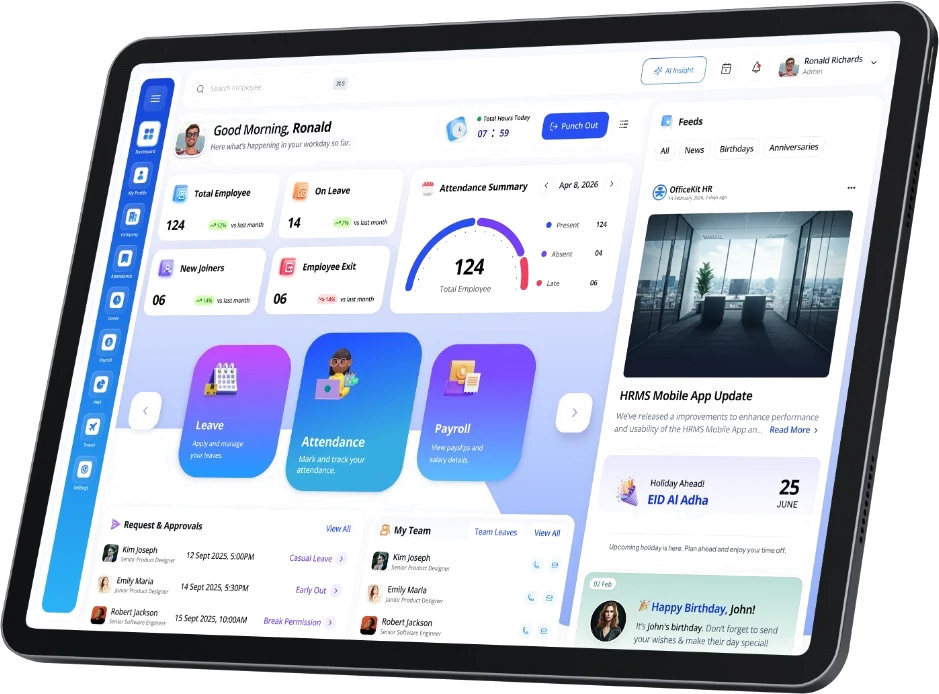
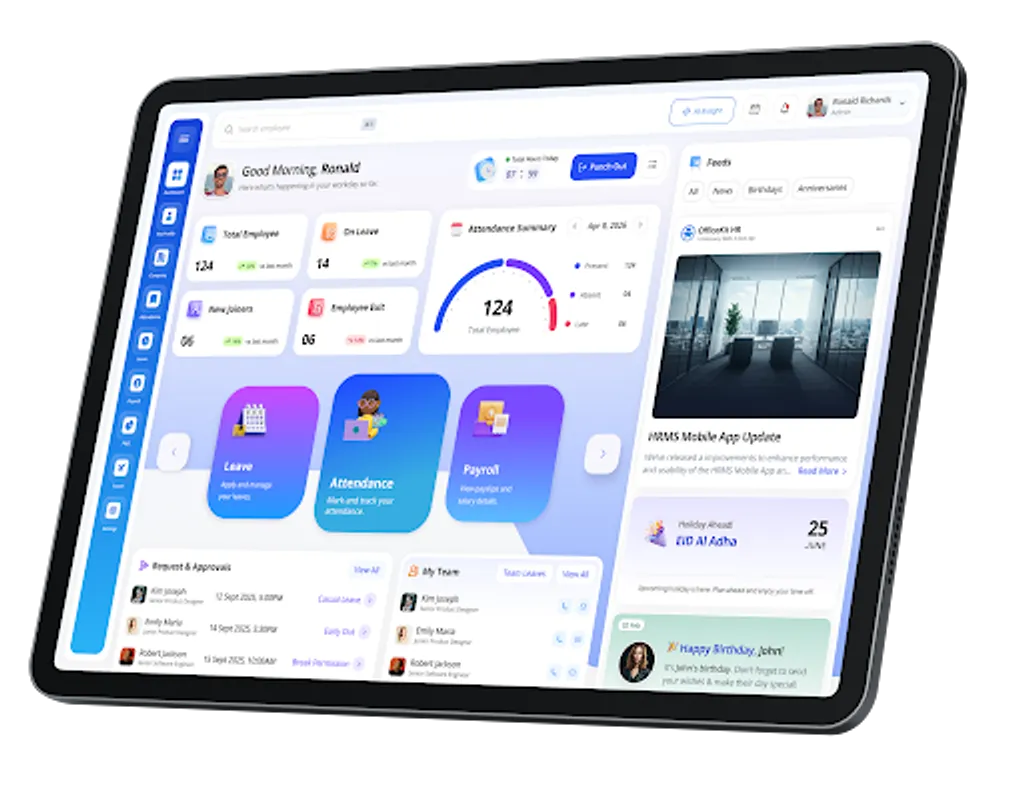
refactor(images): replace PNG mockups with WebP for improved performance
- Updated hero mockup images in index.html and assets.ts to use WebP format, enhancing loading speed and visual quality.
- Adjusted the prune-public-assets script to retain WebP variants of the hero mockups during asset pruning.

diff --git a/src/lib/seo/assets.ts b/src/lib/seo/assets.ts
@@ -33,8 +33,8 @@ export const HERO_IMAGES = {
   },
   /** Hero scroll-swap phone — premium 3D mockup (angle baked into asset). */
   phone: {
-    src: "/hero-phone-mockup.png",
-    srcSet: "/hero-phone-mockup.png 622w",
+    src: "/hero-phone-mockup.webp",
+    srcSet: "/hero-phone-mockup.webp 622w",
     sizes: "(min-width: 1280px) 360px, (min-width: 1024px) 320px, 280px",
     width: 622,
     height: 912,
@@ -42,8 +42,9 @@ export const HERO_IMAGES = {
   },
   /** Hero load-in tablet — 3D mockup with transparent background (angle baked in). */
   tablet: {
-    src: "/hero-tablet-mockup.png",
-    srcSet: "/hero-tablet-mockup.png 512w",
+    src: "/hero-tablet-mockup.webp",
+    srcSet:
+      "/hero-tablet-mockup.webp 512w, /hero-tablet-mockup-1024.webp 1024w",
     sizes: "(min-width: 1280px) 720px, (min-width: 1024px) 560px, 90vw",
     width: 512,
     height: 393,

diff --git a/index.html b/index.html
@@ -41,7 +41,7 @@
   </style>
   <link rel="preload" as="image" href="/BG-480.webp" fetchpriority="high" type="image/webp" media="(max-width: 767px)" />
   <link rel="preload" as="image" href="/BG.webp" fetchpriority="high" type="image/webp" media="(min-width: 768px)" />
-  <link rel="preload" as="image" href="/hero-tablet-mockup.png" fetchpriority="high" type="image/png" media="(min-width: 768px)" />
+  <link rel="preload" as="image" href="/hero-tablet-mockup.webp" fetchpriority="high" type="image/webp" media="(min-width: 768px)" />
   <link rel="preload" as="image" href="/NavLogo-108.webp" fetchpriority="low" type="image/webp" imagesizes="108px" />
   <link rel="preconnect" href="https://www.googletagmanager.com" crossorigin />
   <link rel="preconnect" href="https://app.syncoraai.com" crossorigin />
